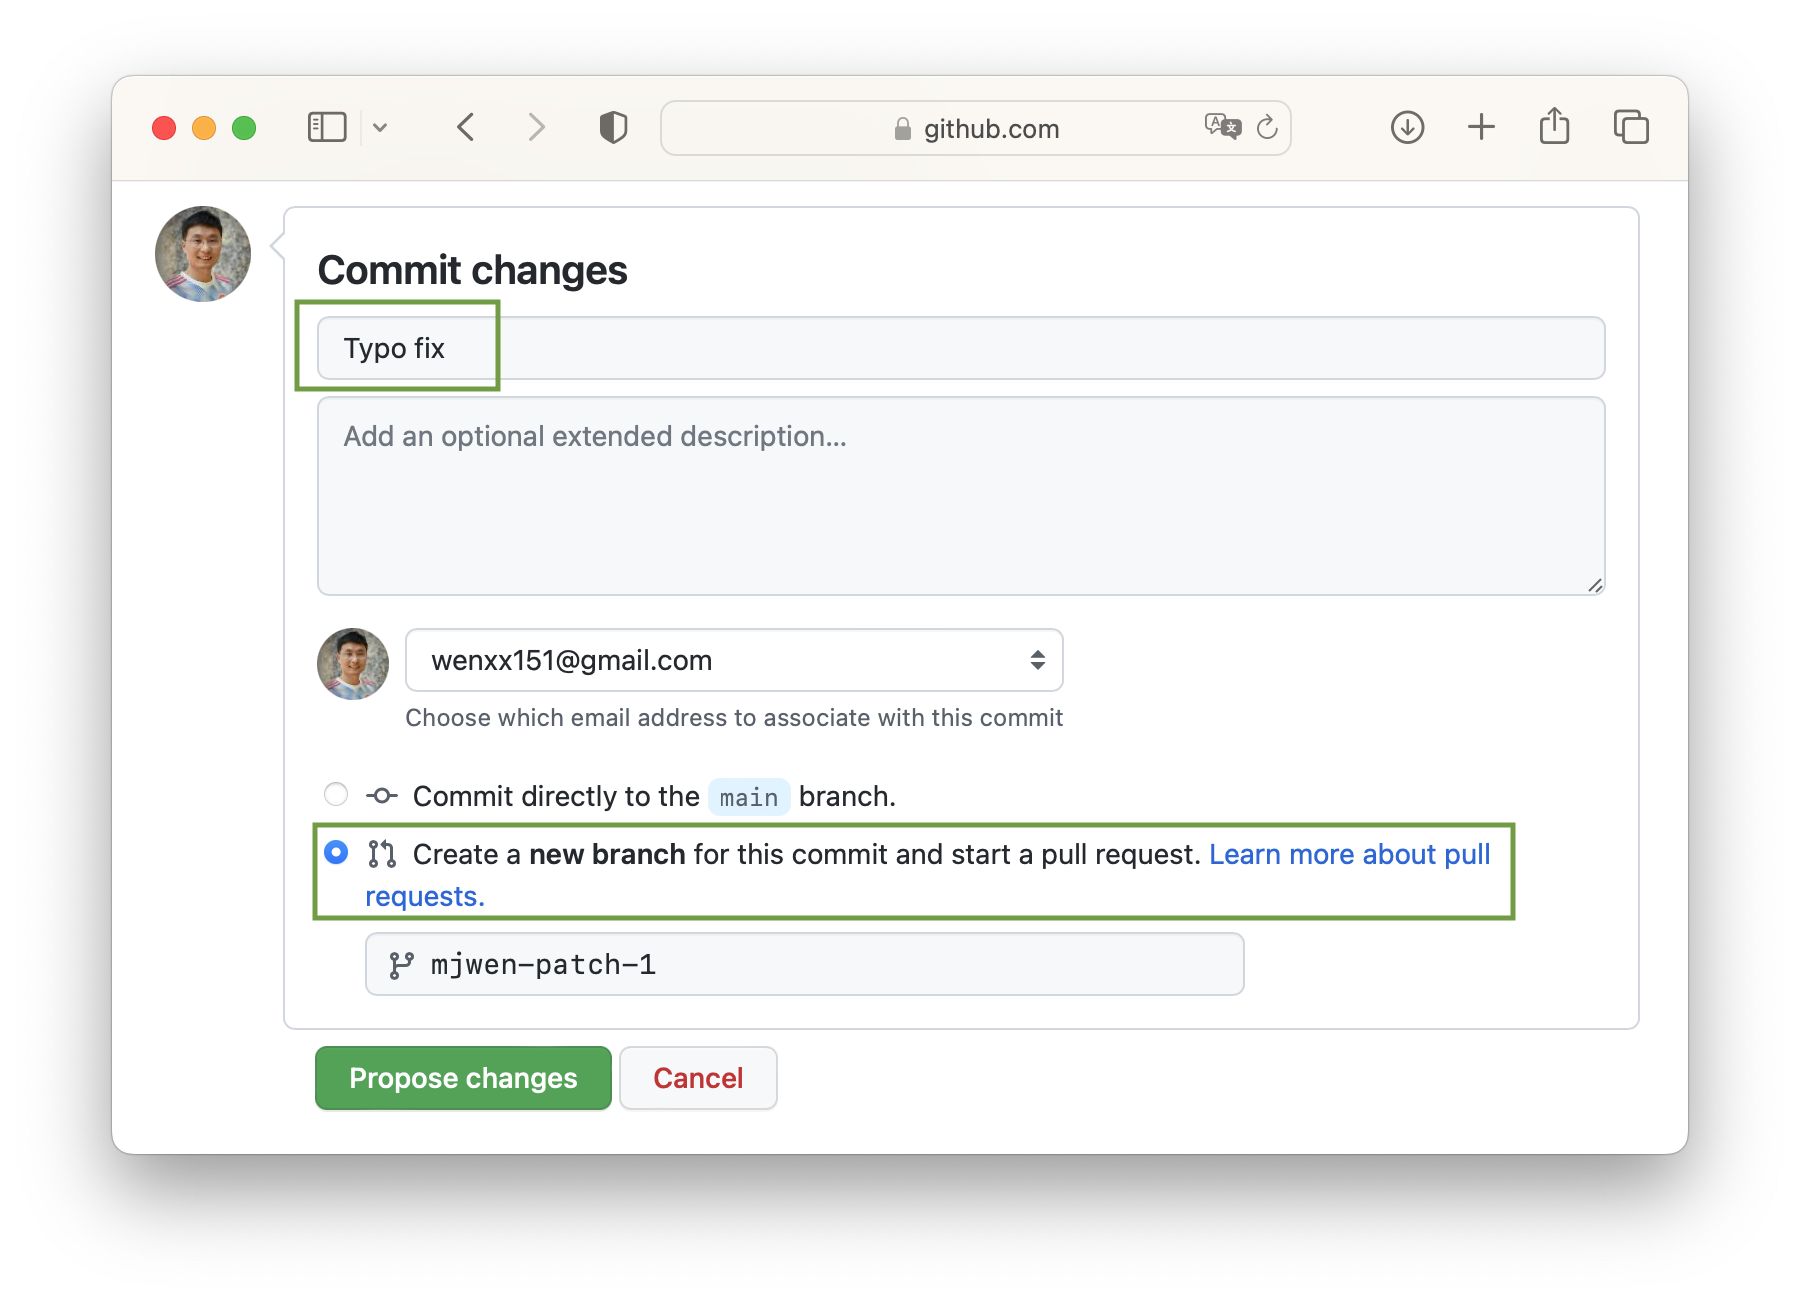
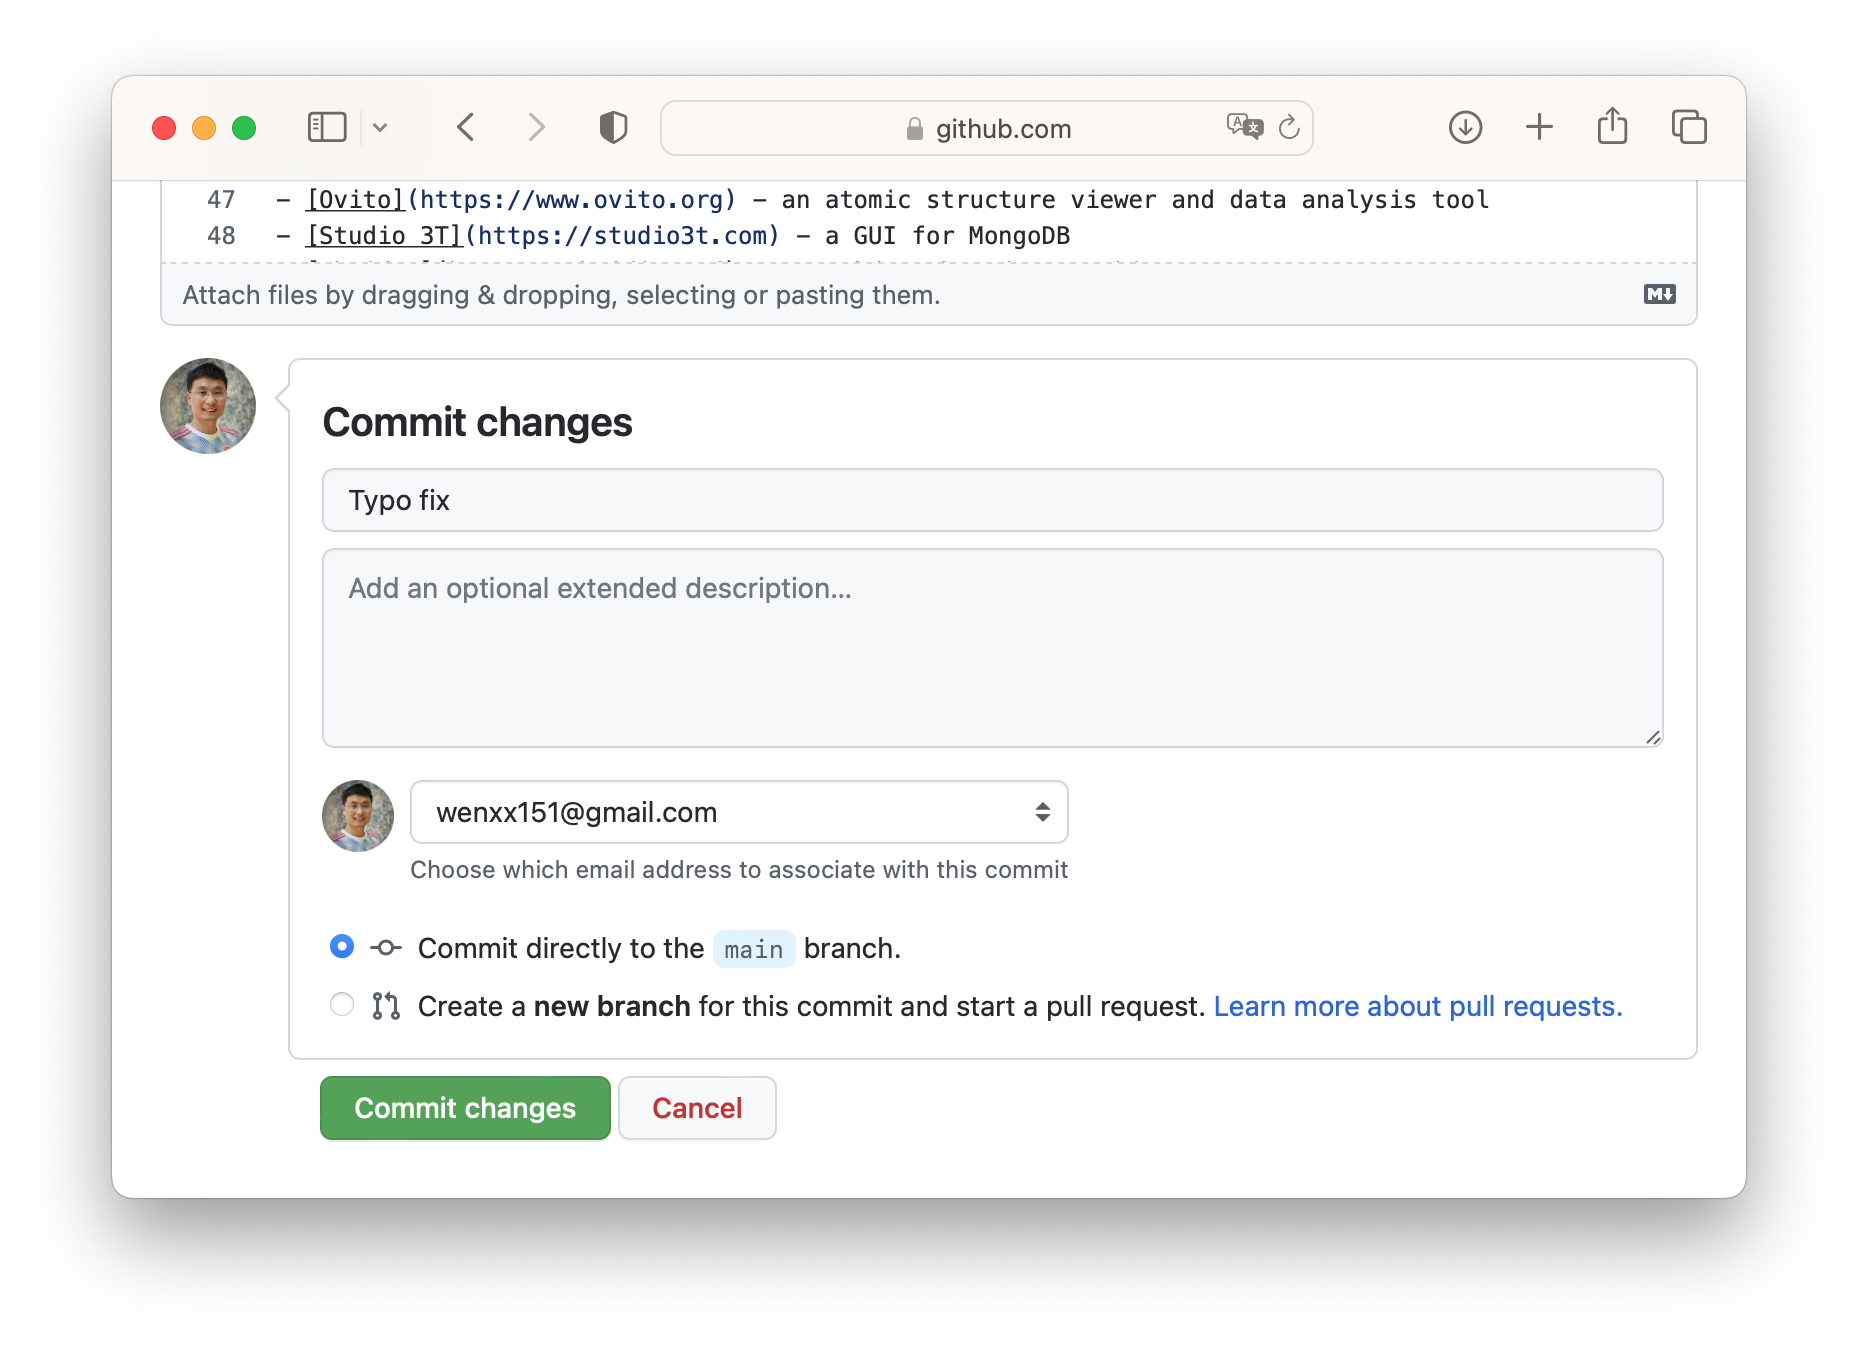
Fix instructions on making PR

diff --git a/docs/contributing/edit.md b/docs/contributing/edit.md
@@ -5,7 +5,7 @@ This page describes how to make edits directly on the GitHub web editor.
 
 ## 1. Forking the repo
 
-Go to the GitHub page of the repo https://github.com/wengroup/group_manual. Fist click `Fork` and then `Create fork`.
+Go to the GitHub repo you want to fork (https://github.com/wengroup/group_manual in this case), and click `Fork` then `Create fork`.
 
 ```{figure} ../image/edit-1.png
 
@@ -15,27 +15,38 @@ Go to the GitHub page of the repo https://github.com/wengroup/group_manual. Fist
 
 ```
 
-## 2. Editing the manual
+## 2. Making edits
 
-In your fork, navigate to the markdown file you want to edit and then make changes to it. For example, in my `mjwen/group_manual` fork of the `wengroup/group_manual`, I can navigate to the `laptop.md` file and click the pencil button to start editing it.
+After forking, the repo will be copied to your GitHub account. Here, the `group_manual` repo from the `wengroup` GitHub account has been forked to the `mjwen` account.
+
+Then, you can edit your forked version of the repo (`mjwen/group_manual` here). Navigate to the file you want to edit and then make changes to it. For example, you can select the `laptop.md` file and click the pencil button to start editing.
 
 ```{figure} ../image/edit-3.png
 
 ```
 
-After editing a markdown page, enter a message describing what you've done, select `Create a new branch for this commit and start a pul request.`, and then click `Propose changes`.
+After changing a file, enter a commit message describing what you've done (e.g. `Typo fix`), select `Commit directly to the main branch`, and then click `Commit changes` to commit your edits.
 
 ```{figure} ../image/edit-4.png
 
 ```
 
+```{tip}
+Here, we use the GitHub web editor to make and commit changes. Alternatively, you can clone the repo, edit it locally, and push the commits. See [Using GitHub](using:github) for instructions.
+When editing locally, you may also want to build the manual and view it. For this, see [Local Build](local:build).
+```
+
 ## 3. Making a pull request
 
-In the `Comparing changes` page, click `Create pull request`, and then in the `Open a pull request` page, click `Create pul request` again.
+Now that you have made changes to your fork of the repo (e.g. `mjwen/group_manual`), you want to make a pull request to propose your changes to the upstream repo (e.g. `wengroup/group_manual`).
+
+Go to the homepage of your fork of the repo, click `Contribute` and then `Open pull request`.
 
 ```{figure} ../image/edit-5.png
 
 ```
+
+Then, enter a brief title and some additional message describing your pull request, check `Allow edits by maintainers`, and click `Create pull request`.
 
 ```{figure} ../image/edit-6.png
 
@@ -44,5 +55,5 @@ In the `Comparing changes` page, click `Create pull request`, and then in the `O
 This is all you need to do. We will then take a look at the pull request and merge it.
 
 ```{tip}
-You can also clone the repo, edit it locally, and push back. For this, see [local build](local:build).
+You can commit multiple changes and then make a single pull request for all of them, i.e. performing step 2 multiple times for different files and then step 3 once.
 ```

diff --git a/docs/contributing/local_build.md b/docs/contributing/local_build.md
@@ -21,7 +21,7 @@ $ pip install -e .
 
 ## Building
 
-We use [jupyter-book](https://jupyterbook.org/en/stable/intro.html) to convert the markdown source files into html webpages. To build it, in the directory with the `pyproject.toml` file, do
+We use [jupyter-book](https://jupyterbook.org/en/stable/intro.html) to convert the markdown source files into html webpages. To build it, in the directory where the `pyproject.toml` file resides, do
 
 ```
 jupyter-book build docs --path-output docs_build

diff --git a/docs/devtool/github.md b/docs/devtool/github.md
@@ -1,4 +1,11 @@
-# GitHub
+(using:github)=
 
+# Using GitHub
 
-[TODO]
+## Cloning a repo
+
+## Making edits
+
+## Committing changes
+
+## Pushing to GitHub
